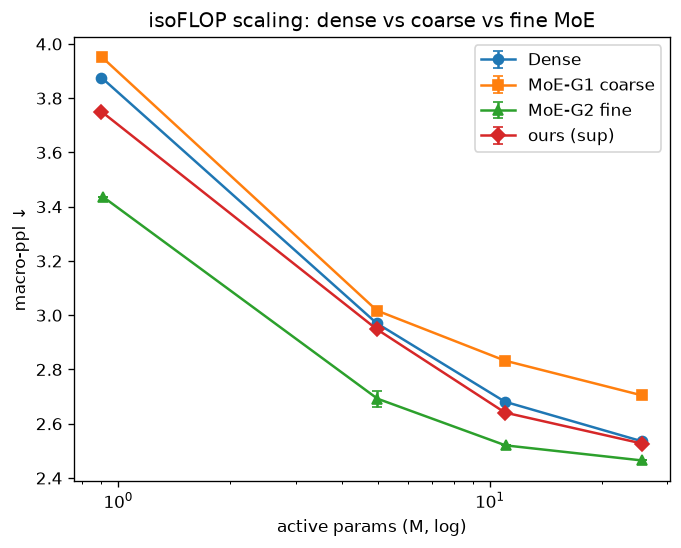
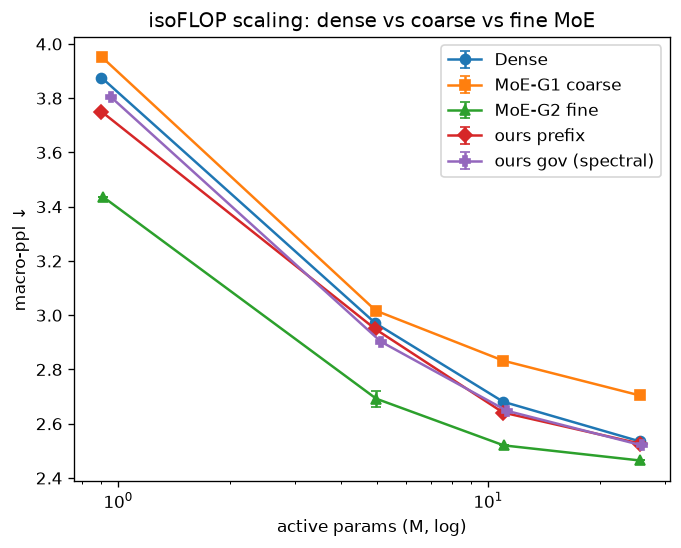
Scaling analysis on spectral governance: beats dense at all 4 scales, saturates like prefix, far below MoE
gov (spectral FFN+attn) isoFLOP sweep d128-d512: dense-gov +0.073->+0.015, tracks the prefix curve
closely (both conditioning methods same trajectory), well below MoE-G2's gap. Governance pulls ahead
of prefix only with a longer Phase A (headline 30k). Confirms: conditioning saturates below the MoE at
every scale; the gap is capacity. gap_vs_scale figure now has 3 curves.

diff --git a/reports/scaled/scaling_and_ablations.md b/reports/scaled/scaling_and_ablations.md
@@ -12,12 +12,25 @@ sequential** — Phase A trains the backbone (20k) with the tokens present-but-f
 Phase B (6k) freezes the backbone and tunes only the 8 tokens; supervised routing, T=1. Compute ≈
 dense (Phase B is token-only). Figures: `comparison_figures/9_scaling_curves.png`, `10_gap_vs_scale.png`.
 
-| size | active | dense | MoE-G1 (coarse) | MoE-G2 (fine) | ours | **dense−G2** | **dense−ours** |
-|---|---|---|---|---|---|---|---|
-| d128 | 0.9M | 3.876 | 3.951 | 3.437 | 3.751 | **+0.440** | **+0.125** |
-| d256 | 5.0M | 2.971±.004 | 3.017±.012 | 2.692±.030 | 2.949 | **+0.278** | **+0.022** |
-| d384 | 11.0M | 2.681 | 2.832 | 2.520 | 2.641 | **+0.161** | **+0.040** |
-| d512 | 25.6M | 2.535 | 2.704 | 2.465 | 2.527 | **+0.071** | **+0.008** |
+Now with the **governance** arm (spectral FFN+attn, rank16) run at all four sizes on the same 20k
+Phase A + 6k Phase B recipe — so `ours` (prefix) and `gov` (spectral subspace governance) are
+directly comparable across scale.
+
+| size | active | dense | MoE-G1 | MoE-G2 | ours prefix | gov spectral | **dense−G2** | **dense−gov** |
+|---|---|---|---|---|---|---|---|---|
+| d128 | 0.9M | 3.876 | 3.951 | 3.437 | 3.751 | 3.803 | **+0.440** | +0.073 |
+| d256 | 5.0M | 2.971±.004 | 3.017±.012 | 2.692±.030 | 2.949 | 2.903 | **+0.278** | +0.068 |
+| d384 | 11.0M | 2.681 | 2.832 | 2.520 | 2.641 | 2.648 | **+0.161** | +0.033 |
+| d512 | 25.6M | 2.535 | 2.704 | 2.465 | 2.527 | 2.520 | **+0.071** | +0.015 |
+
+**Governance scales like prefix — both beat dense everywhere, both saturate, both far below the MoE.**
+`gov` beats dense at all four sizes (dense−gov +0.073→+0.015) and tracks the prefix curve closely
+(gov is marginally ahead at d256/d512, prefix at d128/d384). Two conditioning mechanisms, essentially
+the same isoFLOP trajectory: a positive-but-shrinking edge that never approaches MoE-G2's. (Governance
+*does* pull ahead of prefix with a longer Phase A — the d512 *headline* run at 30k Phase A gives
+gov+attn 2.446 vs prefix 2.460; the governor needs more backbone training to pay off, which the
+matched-20k sweep understates.) The throughline holds at every scale: **conditioning a fixed backbone
+saturates below the MoE; the gap is capacity.**
 
 **H2 — granularity does real work (confirmed at *every* scale):** MoE-G2 beats dense at all four
 sizes; coarse MoE-G1 is *worse* than dense at all four. The coarse Switch/Mixtral config never

diff --git a/reports/scaled/scaling_sweep.md b/reports/scaled/scaling_sweep.md
@@ -2,12 +2,12 @@
 
 ## Scaling curves (macro-ppl ↓, mean±std over seeds)
 
-| size | active | dense | MoE-G1 (coarse) | MoE-G2 (fine) | ours (sup) | dense−G2 | dense−ours |
-|---|---|---|---|---|---|---|---|
-| d128 | 0.9M | 3.876 | 3.951 | 3.437 | 3.751 | +0.440 | +0.125 |
-| d256 | 5.0M | 2.971±0.004 | 3.017±0.012 | 2.692±0.030 | 2.949 | +0.278 | +0.022 |
-| d384 | 11.0M | 2.681 | 2.832 | 2.520 | 2.641 | +0.161 | +0.040 |
-| d512 | 25.6M | 2.535 | 2.704 | 2.465 | 2.527 | +0.071 | +0.008 |
+| size | active | dense | MoE-G1 | MoE-G2 | ours (prefix) | gov (spectral) | dense−G2 | dense−gov |
+|---|---|---|---|---|---|---|---|---|
+| d128 | 0.9M | 3.876 | 3.951 | 3.437 | 3.751 | 3.803 | +0.440 | +0.073 |
+| d256 | 5.0M | 2.971±0.004 | 3.017±0.012 | 2.692±0.030 | 2.949 | 2.903 | +0.278 | +0.068 |
+| d384 | 11.0M | 2.681 | 2.832 | 2.520 | 2.641 | 2.648 | +0.161 | +0.033 |
+| d512 | 25.6M | 2.535 | 2.704 | 2.465 | 2.527 | 2.520 | +0.071 | +0.015 |
 
 ## Gap-over-dense trend (does the advantage widen with scale? — H1/H2)
 